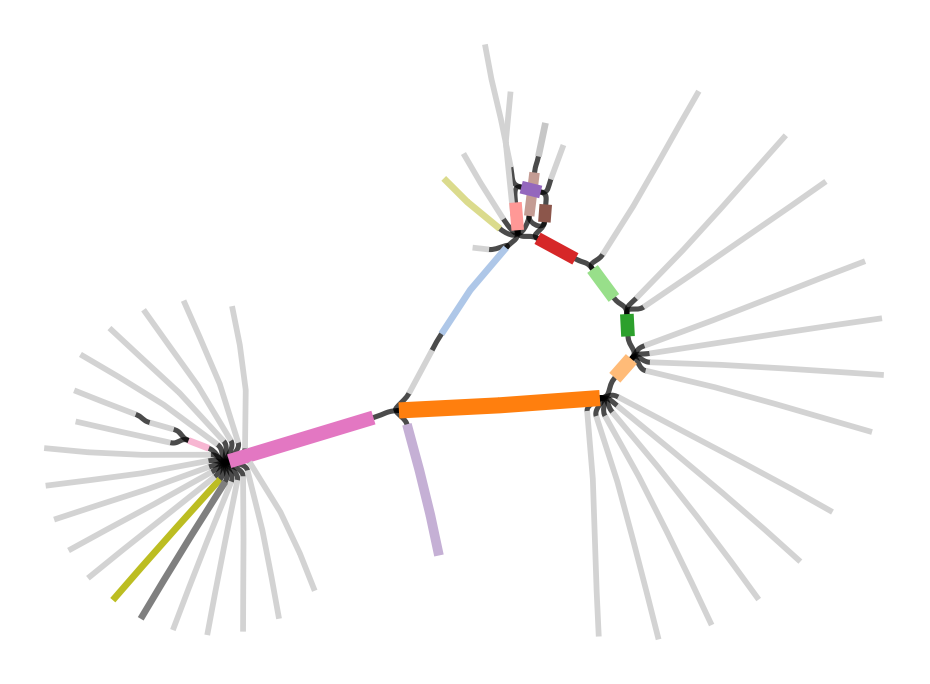
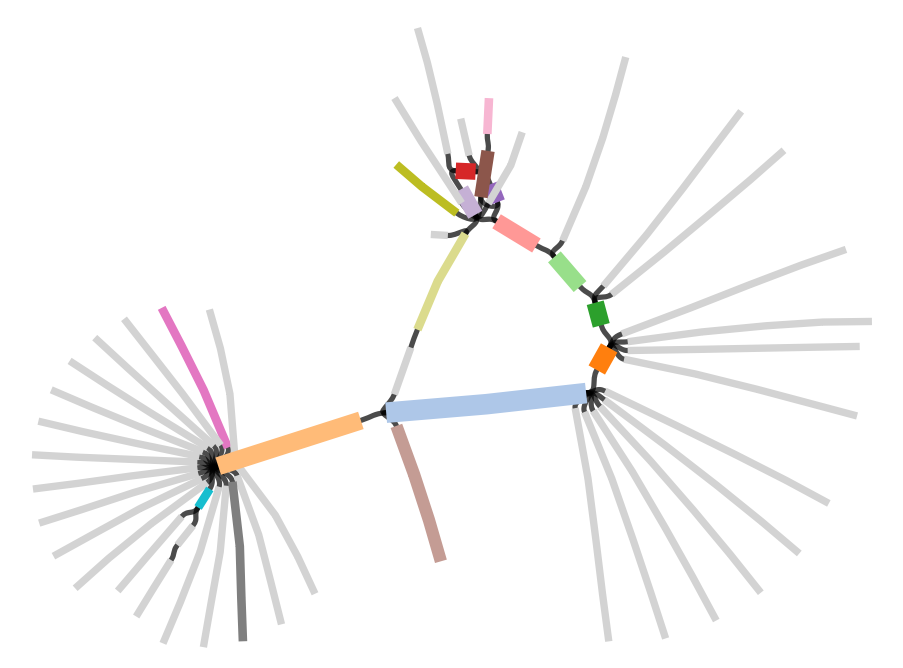
finished part 1

diff --git a/scripts/shared_paths_vs_coretree.py b/scripts/shared_paths_vs_coretree.py
@@ -29,8 +29,9 @@ def tree_leaves_distances(tree):
 
 
 def scatterplot(df, fig_savename):
+    """Draw a scatter-plot of shared path length vs tree distance"""
     fig, ax = plt.subplots(figsize=(4, 3))
-    ax.scatter(df["shared_L"] / 1000, df["tree_dist"], alpha=0.3)
+    ax.scatter(df["shared_L"] / 1000, df["tree_dist"], alpha=0.2)
     ax.set_xlabel("shared path length (kbp)")
     ax.set_ylabel("tree distance")
     ax.spines["right"].set_visible(False)
@@ -40,7 +41,8 @@ def scatterplot(df, fig_savename):
     plt.close(fig)
 
 
-def elliptic_connect(y1, y2, color, ax):
+def __draw_ellipse(y1, y2, color, ax):
+    """utility function to draw a half-ellipse between two points"""
     theta = np.linspace(0, np.pi, 30)
     dy = np.abs(y2 - y1) / 2
     y0 = np.mean([y1, y2])
@@ -51,8 +53,10 @@ def elliptic_connect(y1, y2, color, ax):
 
 
 def tree_plot(tree, df, fig_savename):
+    """Draw a plot to compare the distance on core-genome tree to the length of
+    shared paths"""
 
-    # set of selected leaves
+    # set of bla-containing isolates
     leaves_idx = {l.name: n + 1 for n, l in enumerate(tree.get_terminals())}
     selected_leaves = list(leaves_colors.keys())
 
@@ -60,6 +64,7 @@ def tree_plot(tree, df, fig_savename):
         1, 2, figsize=(6, 10), sharey=True, gridspec_kw={"width_ratios": [2, 1]}
     )
 
+    # draw tree, displaying the label of sleected isolates
     ax = axs[0]
     Phylo.draw(
         tree,
@@ -72,11 +77,13 @@ def tree_plot(tree, df, fig_savename):
     ax.spines["top"].set_visible(False)
     ax.grid(True, axis="y", alpha=0.5)
 
+    # draw links between isolates, color representing the shared path length
     ax = axs[1]
+
     cmap = plt.get_cmap("Blues")
-    norm = plt.Normalize(
-        vmin=df["shared_L"].min() / 1000, vmax=df["shared_L"].max() / 1000
-    )
+    Lmin, Lmax = df["shared_L"].min() / 1000, df["shared_L"].max() / 1000
+    norm = plt.Normalize(vmin=Lmin, vmax=Lmax)
+    
     for _, x in df.sort_values("shared_L").iterrows():
         l1 = x["p1"].split("-")[0]
         l2 = x["p2"].split("-")[0]
@@ -84,12 +91,13 @@ def tree_plot(tree, df, fig_savename):
         i1 = leaves_idx[l1]
         i2 = leaves_idx[l2]
         color = cmap(norm(L))
-        elliptic_connect(i1, i2, color, ax)
+        __draw_ellipse(i1, i2, color, ax)
 
     ax.set_xticks([])
     for sp in ax.spines:
         ax.spines[sp].set_visible(False)
 
+    # add colorbar
     mapp = mpl.cm.ScalarMappable(norm=norm, cmap=cmap)
     plt.colorbar(mapp, ax=ax, label="shared path length (kbp)", shrink=0.5, pad=0.05)
 
@@ -120,6 +128,6 @@ if __name__ == "__main__":
         lambda x: tree_d[(x["p1"].split("-")[0], x["p2"].split("-")[0])], axis=1
     )
 
-    # plot
+    # perform plots
     scatterplot(df_l, args.fig_scatter)
     tree_plot(tree, df_l, args.fig_tree)

diff --git a/scripts/bla_structural_diversity.py b/scripts/bla_structural_diversity.py
@@ -96,16 +96,18 @@ def plot_paths(pan, paths_order, leaves_colors, core_anchor, fig_savename):
     assigning colors to blocks occurring multiple times."""
 
     # dictionary of block lengths
-    df = pan.to_blockstats_df().sort_values("n. strains", ascending=False)
+    df = pan.to_blockstats_df().sort_values("count", ascending=False)
     Ls = df["len"].to_dict()
 
     # generate colors for blocks
     def __color_generator():
         cm = mpl.colormaps.get_cmap("tab20")
-        c_idx = 0
+        colors = [cm(i) for i in range(20)]
+        colors.pop(15)  # remove light gray
+        i = 0
         while True:
-            yield cm(c_idx)
-            c_idx += 1
+            yield colors[i]
+            i += 1
 
     cg = __color_generator()
     block_colors = {

diff --git a/notes/part_1.md b/notes/part_1.md
@@ -1,6 +1,6 @@
 # part 1: structural diversity around bla gene
 
-The aim of this part of the analysis is using pangraph to compare the structural diversity of the region surrounding the beta lactamase gene in these chromosomes.
+The aim of this part of the analysis is using pangraph to compare the structural diversity of the region surrounding the beta lactamase gene in these chromosomes, and check how this compares to the core-genome tree.
 
 The file `data/bla15.fa` contains the nucleotide sequence of a beta-lactamase CTX-M-15 gene ([UniProt](https://www.uniprot.org/uniprotkb/G8FPM5) | [GenBank](https://www.ncbi.nlm.nih.gov/nuccore/JN019833)).
 
@@ -109,18 +109,74 @@ minimap2 data/bla15.fa results/bla15/export/pangraph.fa \
 
 ## step 5: structural diversity of _bla_ gene neighbourhood
 
-We wrote a simple script to:
-- evaluate the pairwise diversity
-- order gene occurrences by similarity
-
-The script uses [pypangraph](https://github.com/mmolari/pypangraph), a package to interact with pangraph's pangenome graphs using python.
-
-We can visualize the results in two ways. The firs one is through a scripts that creates a linear visualization of the _bla_ regions, and assigns a color to any non-singleton block.
-
-This script also produces a `csv` file that can be loaded in bandage to apply the corresponding colors to the graph visualization:
+We can assign colors to every block that occurr more than once:
 
 <p align="center">
     <img src="assets/graph.png" alt="colored graph" width=600px>
 </p>
 
-## step 6: comparing diversities
+And then we can produce a linear representation of the paths. Duplicated blocks were not present in the exported graphs but are present in the paths.
+![linear paths](assets/bla_paths_drawing.png)
+
+We evaluate structural diversity in the following way:
+- we define the _anchor block_ as the block containing the _bla_ gene, which is present in every path.
+- for every pair of paths we start from the anchor block, and following the strandedness of the paths we try to extend the match upstream and downstream of this block, until we get a point with structural diversity.
+- the _shared path length_ is the length of this maximum matching.
+
+Here is a matrix representation of the pariwise shared length:
+<p align="center">
+    <img src="assets/bla_paths_shared_len.png" alt="colored graph" width=600px>
+</p>
+
+All of these representations are produced by the `bla_structural_diversity.py` script. This script:
+- loads the pangenome graph using [pypangraph](https://github.com/mmolari/pypangraph), a python package used to inspect and manipulate the pangenome graphs produced by PanGraph.
+- evaluates the pairwise shared length starting from the anchor blocks for all pairs of paths.
+- perform hierarchical clustering on the resulting similarity matrix. This is done to obtain an order for the paths that groups similar pahts together.
+- produces the linear visualization of the paths. Colors assigned to each block are saved in the `results/bla15/block_colors.csv` file. This file can be loaded in bandage to obtain the visualization displayed above.
+- plots the similarity matrix.
+
+Usage is as follows (rule `bla_structural_diversity`):
+```bash
+python3 scripts/bla_structural_diversity.py \
+    --pangraph results/bla15/pangraph_window.json  \
+    --anchor_block $(cat results/bla15/bla_block.txt) \
+    --leaves_colors results/bla15/isolate_color.csv \
+    --fig_paths figs/bla_paths_drawing.png \
+    --fig_matrix figs/bla_paths_shared_len.png \
+    --block_colors results/bla15/block_colors.csv \
+    --shared_len_df results/bla15/shared_bla_length.csv
+```
+
+## step 6: comparison with the core genome tree
+
+As a final step for this part of the tutorial we use the results we obtained to compare similarity between paths to the distance in core genome.
+
+If we scatter-plot the core-genome tree distance against the length of shared paths for each isolate we obtain a weak negative correlation:
+
+<p align="center">
+    <img src="assets/bla_shared_len_vs_coretree_scatter.png" alt="paths vs coretree scatter" width=300px>
+</p>
+
+Given that these isolates only have few SNPs on their core genome (50-100 SNPs on a core genome of several Mbps) the core genome tree distance is noisy. Given the fast dynamics with which resistance genes are gained and lost, looking at the structural similarity of the context in which these genes are integrated might provide a much better measure of relatedness.
+
+A more clear visualization can be obtained by drawing links between isolates that share the _bla_ gene, with the color of the link representing the length of the shared path.
+
+<p align="center">
+    <img src="assets/bla_shared_len_vs_coretree.png" alt="paths vs coretree" width=500px>
+</p>
+
+These visualizations are produced by the follwing script (rule `bla_structure_vs_coretree`):
+```bash
+python3 scripts/shared_paths_vs_coretree.py \
+    --shared_len_df results/bla15/shared_bla_length.csv \
+    --tree data/coretree.nwk \
+    --leaves_colors results/bla15/isolate_color.csv \
+    --fig_scatter figs/bla_shared_len_vs_coretree_scatter.png \
+    --fig_tree figs/bla_shared_len_vs_coretree.png
+```
+
+## summary
+
+We used _PanGraph_ to build a graph of a ~10 kbp region surrounding the beta-lactamase gene. The sequence of these genes is highly conserved and no phylogenetic information can be extracted from the gene alignment. However we can use the pangenome graph to define a similarity measure for the context surrounding the resistance gene. 
+
+Clades closer on the core genome tree tend to have more similar contexts. Very similar contexts are likely to indicate closely related strains or recent transfer events.

diff --git a/notes/part_2.md b/notes/part_2.md
@@ -1,0 +1,5 @@
+# using pangraph to estimate private sequence
+
+In the previous tutorial we identified a clade with high structural similarity in the region surrounding the beta-lactamase gene.
+
+In this second part of the tutorial we build a pangenome graph containing 10 whole chromosomes of isolates from a part of the tree that includes this clade. We then use this graph to measure how much of accessory genome is not shared for any given pair of isolates.
